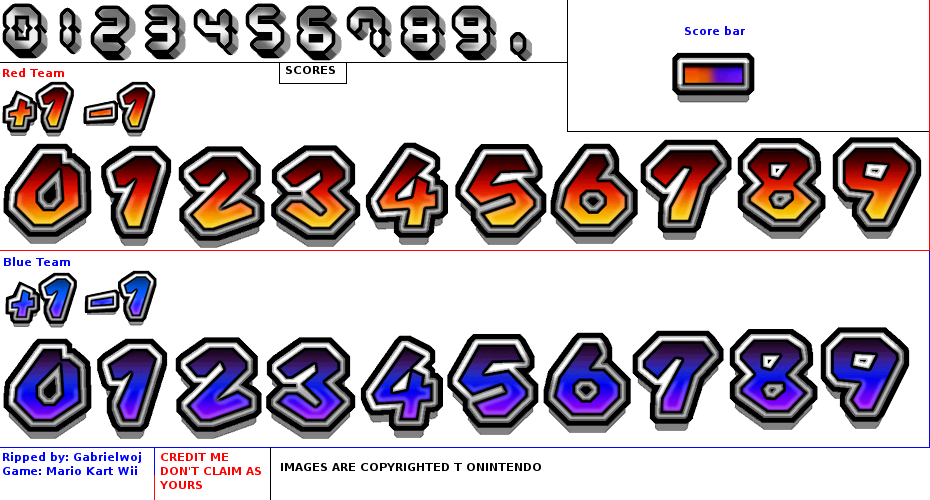
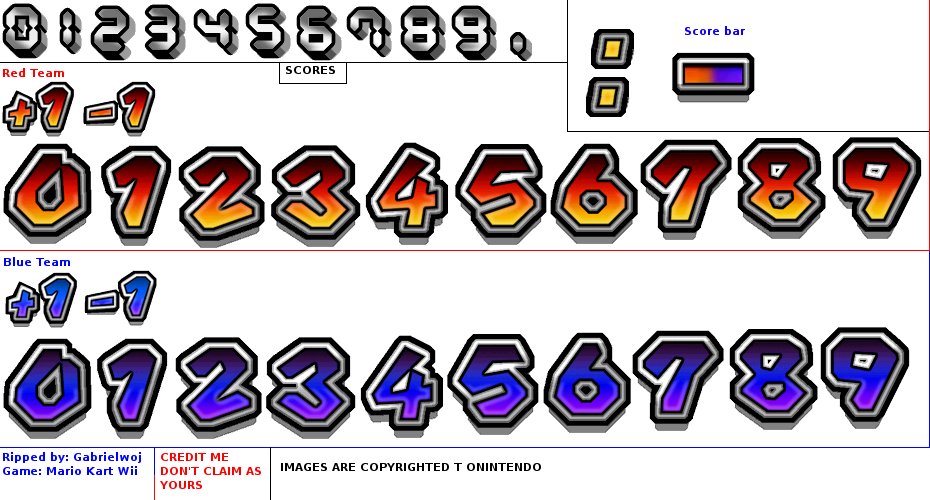
lol

Changed region(s): [[0.6237, 0.06, 0.686, 0.24]]

diff --git a/public_html/assets/js/time.js b/public_html/assets/js/time.js
@@ -1,10 +1,10 @@
-function Score(enemy) {
+function Time() {
     'use strict';
 
     //------privatbereich-------
 
-    var _enemy = enemy,
-        _left = 454;
+    var _left = 464,
+        _top = 400;
 
     var _sprite = {
         name : 'score',
@@ -14,7 +14,7 @@ function Score(enemy) {
         images : {}
     };
     
-    var _scoreShapes = [
+    var _timeShapes = [
         {
             sTop        : 136,//0
             sLeft       : 2,
@@ -102,6 +102,18 @@ function Score(enemy) {
         }
     ];
     
+    var _dotsShapes = [
+        {
+            sTop        : 29,//9
+            sLeft       : 581,
+            top         : 34,
+            width       : 60,
+            height      : 88,
+            dHeight     : 24,
+            dWidth      : 20
+        }
+    ];
+    
     function _getResources() {
         return _sprite;
     }
@@ -115,7 +127,23 @@ function Score(enemy) {
      * 
      * @returns {Background._sprite}
      */
-    this.get = function() {
+    this.get = function() {            
+        function getTimeShape(shape, index) {
+            var _frame =   {
+                 sTop        : shape[index].sTop,
+                 sLeft       : shape[index].sLeft,
+                 top         : 460,
+                 width       : shape[index].width,
+                 height      : shape[index].height,
+                 dHeight     : shape[index].dHeight,
+                 dWidth      : shape[index].dWidth,
+                 useSlice    : true,
+                 flipedImage : false
+             };
+
+             return _frame;
+        }
+    
         _sprite.images.scoreBar = null;
         _sprite.shapes.scoreBar = [];
         
@@ -136,51 +164,35 @@ function Score(enemy) {
          * 
          * Das Anzeigen des Spielstandes.
          */
-        var _score = _enemy.getScore();
+        var _time    = new Date();
+        var _hour    = _time.getHours();
+        var _minut   = _time.getMinutes();
+        var _second  = _time.getSeconds();
 
-        var _num = _score.toString();
-        var _len = _num.length;
+        var _offSetLeft = _left - 40;
         
-        var _w = 0;
-        for (var i= 0; i < _len; i++) {
-            _w += 20;//Die Breite "20" eines Elements
-        }
-        
-        _w += (_len - 1) * 5; // "5" die Abstand von Elementen
-        
-        var _offSetLeft = _left - (_w / 2);
-        
-        for (var i= 0; i < _len; i++) {
-            _sprite.images['score' + i] = MY_Game_Resources.get(_sprite.spriteSources[0]);
+        var _fullTime = _hour.toString() + ':' + _minut.toString() + ':' + _second.toString();
+
+        for (var i= 0; i < _fullTime.length; i++) {
+            if (_fullTime[i] === ':') {
+                var _frame = getTimeShape(_dotsShapes, 0);
+            }
+            else {
+                var _frame = getTimeShape(_timeShapes, _fullTime[i]);
+            }
             
-            //_scoreShapes[_num[i]].left = _offSetLeft;
-            
-            _offSetLeft += 25;// Die Breite plus den Abstand
-            
-            var _frame =   {
-                 sTop        : _scoreShapes[_num[i]].sTop,
-                 sLeft       : _scoreShapes[_num[i]].sLeft,
-                 top         : 34,
-                 width       : _scoreShapes[_num[i]].width,
-                 height      : _scoreShapes[_num[i]].height,
-                 dHeight     : _scoreShapes[_num[i]].dHeight,
-                 dWidth      : _scoreShapes[_num[i]].dWidth,
-                 useSlice    : true,
-                 flipedImage : false
-             };
+            _sprite.images['timme' + i] = MY_Game_Resources.get(_sprite.spriteSources[0]);
 
             _frame.left = MY_camera.xView + _offSetLeft;
 
-            _sprite.shapes['score' + i] = [_frame];
+            _sprite.shapes['timme' + i] = [_frame];
+                        
+            _offSetLeft += 20;
         }
 
         return _sprite;
     };
-    
-    this.getShape = function() {
-        
-    };
 }
 
-Score.prototype = new Actor();
-Score.prototype.constructor = Score;
+Time.prototype = new Actor();
+Time.prototype.constructor = Time;

diff --git a/public_html/assets/js/run.js b/public_html/assets/js/run.js
@@ -14,7 +14,8 @@
             play : false,
             gameOver : false
         },
-        _score;
+        _score,
+        _time;
     
     var init = function () {
         window.MY_ControllerKey = {
@@ -80,7 +81,9 @@
         _enemy = new Enemy(_bullet);
         
         _score = new Score(_enemy);
-
+        
+        _time = new Time();
+        
         MY_Game_Resources.load(_player.getResources());
         MY_Game_Resources.load(_background.getResources());
         MY_Game_Resources.load(_gun.getResources());
@@ -97,6 +100,7 @@
         _drawRenderObjects.push(_hurdle);
         _drawRenderObjects.push(_enemy);
         _drawRenderObjects.push(_score);
+        _drawRenderObjects.push(_time);
                 
         preload();// Alle Resources in Cache ablegen
 

diff --git a/public_html/index.html b/public_html/index.html
@@ -40,6 +40,7 @@ and open the template in the editor.
         <script src="assets/js/enemy.js" type="text/javascript"></script>
         <script src="assets/js/collisionDetection .js" type="text/javascript"></script>
         <script src="assets/js/score.js" type="text/javascript"></script>
+        <script src="assets/js/time.js" type="text/javascript"></script>
         
         <script src="assets/js/run.js" type="text/javascript"></script>        
 
